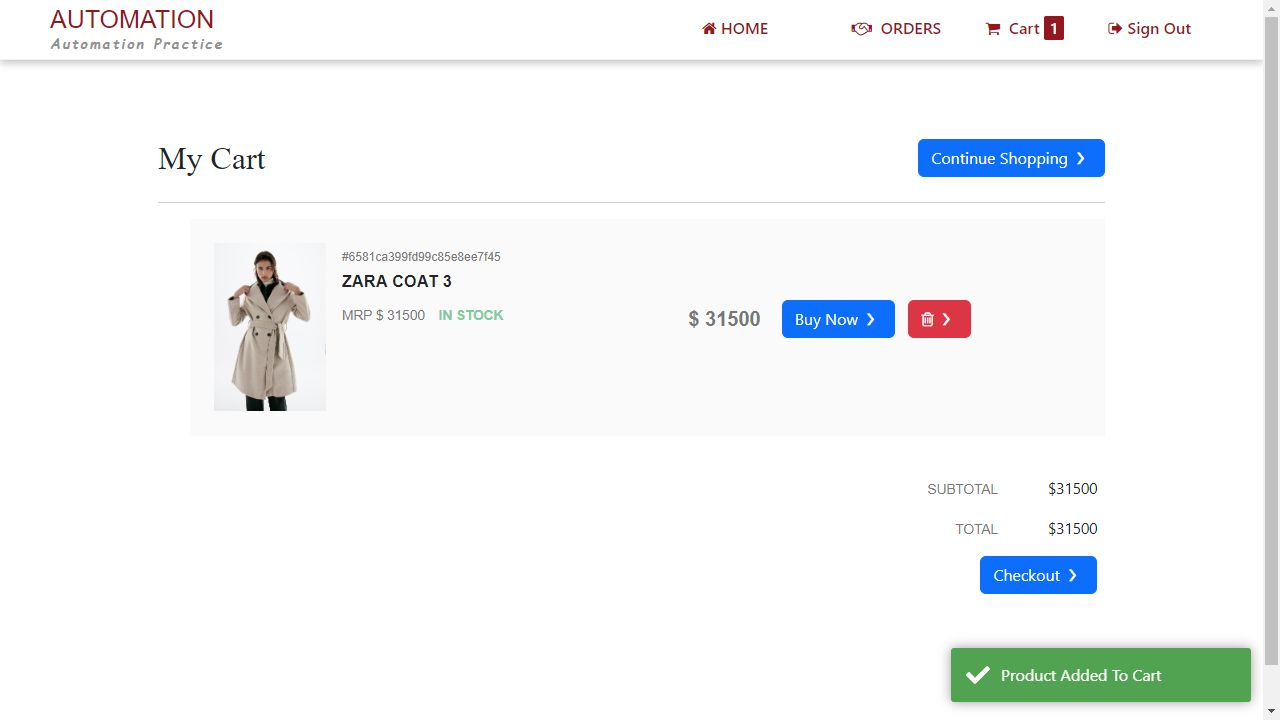
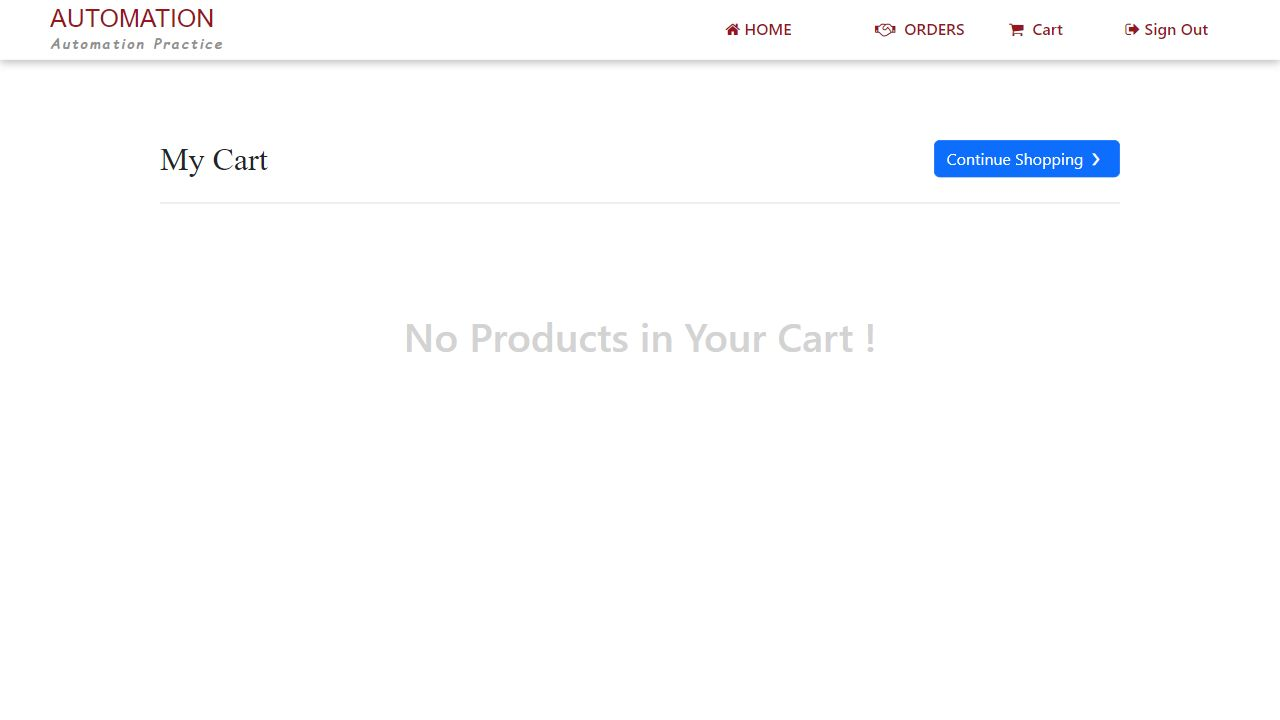
commit

diff --git a/tests/clientApp.spec.js b/tests/clientApp.spec.js
@@ -2,7 +2,7 @@ const {test, expect} = require("@playwright/test");
 const { count } = require("console");
 
 
-test.skip ('Page Client App Login' , async ({page}) =>{   
+test ('Page Client App Login' , async ({page}) =>{   
     const email = 'tunglam@gmail.com'
     const password = 'Moihoc!1'
     const products = page.locator('.card-body')
@@ -15,8 +15,8 @@ test.skip ('Page Client App Login' , async ({page}) =>{
     const titles = await products.allTextContents()
     console.log(titles)
 
-    //Zara Coat 3
-    const productName = 'ZARA COAT 3'
+    //IPHONE 13 PRO
+    const productName = 'IPHONE 13 PRO'
     for (let i = 0; i < await products.count(); i++) {
         if (await products.nth(i).locator('b').textContent() == productName) {
             await products.nth(i).locator('text= Add To Cart').click()
@@ -30,6 +30,7 @@ test.skip ('Page Client App Login' , async ({page}) =>{
     await page.locator('[placeholder="Select Country"]').pressSequentially('vi')   
     const dropdown = page.locator('.ta-results')
     await dropdown.waitFor()
+    await expect(dropdown).toBeVisible();
     const countDropdown = dropdown.locator('button')
     for (let i = 0; i < await countDropdown.count(); i++) {
         const text = await countDropdown.nth(i).textContent()

diff --git a/features/step_definitions/step.ts b/features/step_definitions/step.ts
@@ -10,5 +10,5 @@ Given ('Login to Ecommmerce web with {username} and {password}', async function 
     const basePage = new BasePage(page)
     const loginPage = basePage.getLoginPage()
     await loginPage.goto()
-    await loginPage.ValidLogin(data.email,data.password)
+    //await loginPage.ValidLogin(data.email,data.password)
 })

diff --git a/playwright.config.js b/playwright.config.js
@@ -37,7 +37,7 @@ module.exports = defineConfig({
     screenshot:'on',
   },
   globalSetup: require.resolve('./tests/setup.js'),
-  timeout: 10 * 1000,
+  timeout: 30 * 1000,
   expect: {
     timeout: 30000
   },
